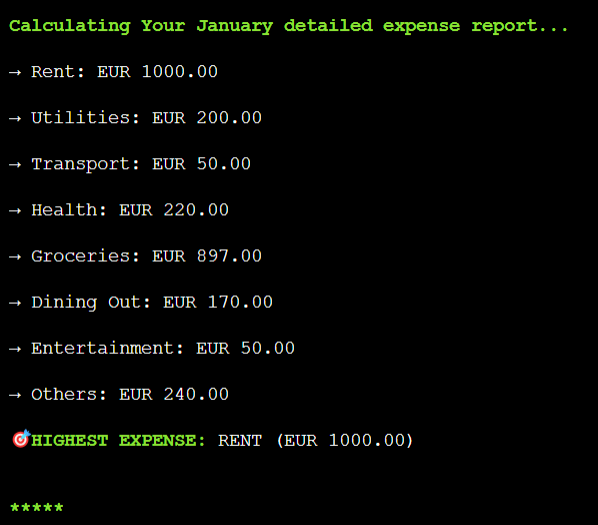
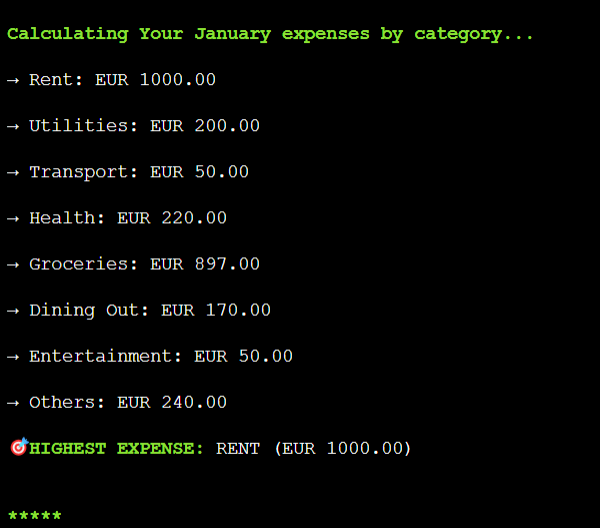
Readme: user selects option 1,, add screenshots of the monthly report

diff --git a/README.md b/README.md
@@ -106,13 +106,17 @@
 ![Invalid choice](documentation/website-screenshots/user-selection-option1.png)
 
 + 1 it is recognized as a valid input.
-+ The application first shows the title of the monthly financial report and prompts the user to enter the complete month name.
-+ The input uses the lower() method to accept capital letters.
-+ If month name is valid, then the monthly report shows as follows:
++ The application first displays the report title in green using colorama to stand out.
++ When generating a monthly report, the application prompts the user for the month name (case-insensitive).
++ If the month is valid, the report displays the total income, total expenses, cash balance, a breakdown of expenses by category, and the highest expense.
   - Calculates Monthly Income and Expenses
-  - Calculates Cash Balance
-  - Calculates Expenses By Category and Highest expense
+  ![Invalid choice](documentation/website-screenshots/calculate-monthly-income-and-expenses.png)
 
+  - Calculates Cash Balance
+  ![Invalid choice](documentation/website-screenshots/calculate-cash-balance.png)
+
+  - Calculates Expenses By Category and Highest expense
+  ![Invalid choice](documentation/website-screenshots/calculate-expenses-by-category-and-max-spend.png)s
 ---
 ### Game Indications Page
 
